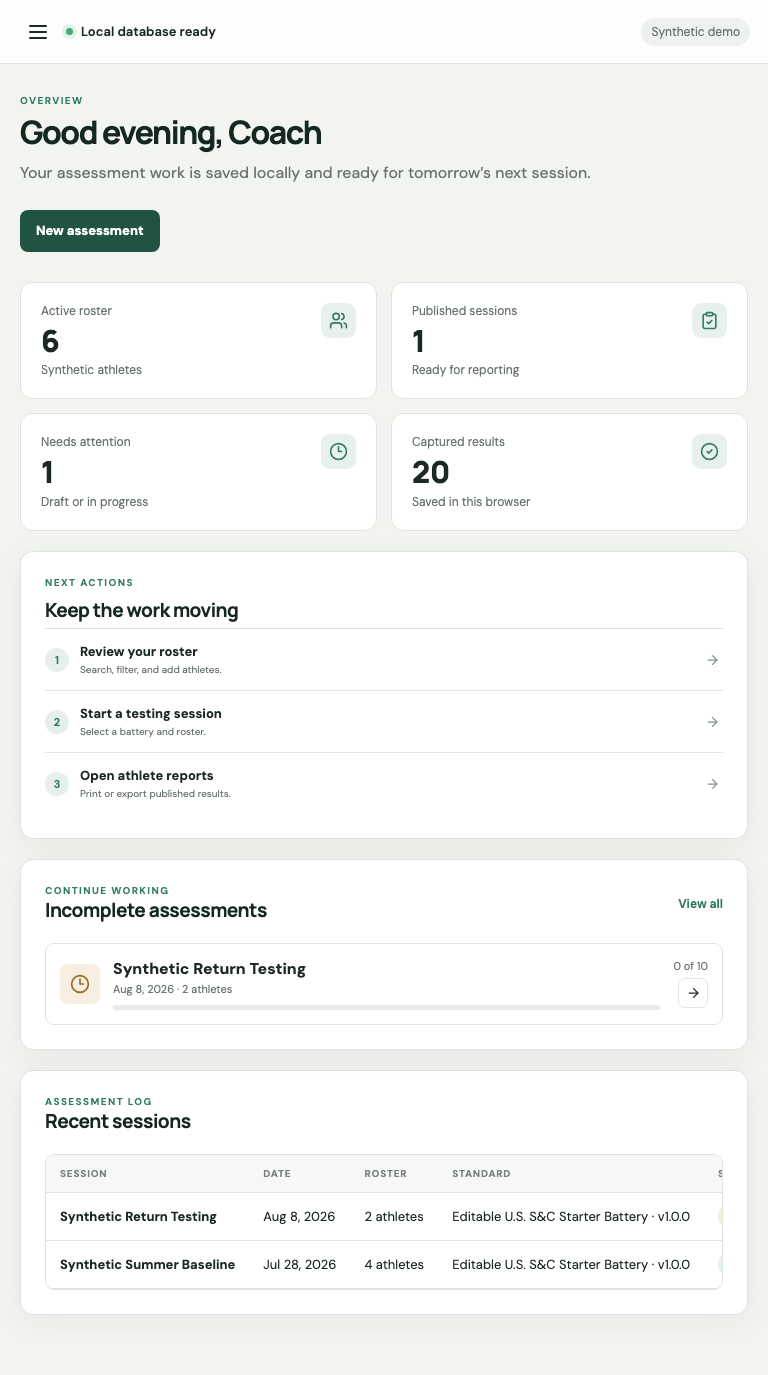
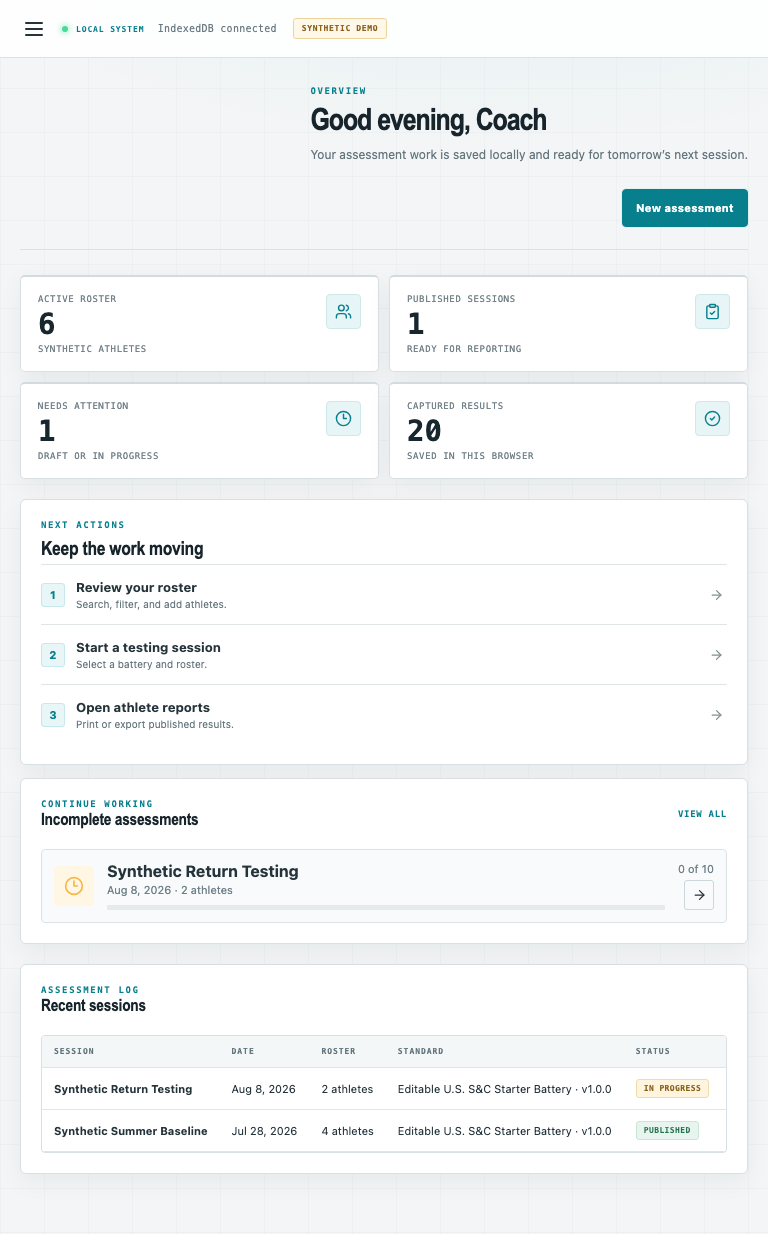
feat: adopt performance operations visual system

diff --git a/src/styles.css b/src/styles.css
@@ -12,3 +12,91 @@ button,input,select{max-width:100%}
 @media(max-width:800px){.editor-metric-grid{grid-template-columns:1fr 1fr}.editor-bands>div{grid-template-columns:1fr 1fr}.editor-bands .meaning{grid-column:1/-1}.standards-modal{padding:18px}}
 @media(max-width:520px){.header-actions{flex-direction:column}.header-actions>select{width:100%}}
 .modal.standards-modal{width:min(1100px,calc(100vw - 32px))}.standards-editor-list,.editor-metric,.editor-metric-grid,.editor-bands,.editor-bands>div{min-width:0}.editor-metric input,.editor-metric select{width:100%;min-width:0}
+
+/* Fieldhouse instrument system. Inspired by Arketype Signal Lab and proven
+   data-heavy admin patterns. This layer intentionally leaves workflow markup
+   and behavior untouched while replacing the visual language end to end. */
+:root{
+  font-family:Inter,ui-sans-serif,-apple-system,BlinkMacSystemFont,"Segoe UI",sans-serif;
+  color:#dce4e9;background:#090c0f;
+  --ink:#edf4f7;--muted:#82919a;--line:#273139;--panel:#11161b;
+  --green:#21c7d9;--green-dark:#087f8d;--lime:#21c7d9;
+  --cream:#0d1216;--red:#ff6b72;--amber:#f5b84b;
+  --shadow:0 14px 34px rgba(0,0,0,.24)
+}
+body{color:#dce4e9;background-color:#090c0f;background-image:linear-gradient(rgba(33,199,217,.027) 1px,transparent 1px),linear-gradient(90deg,rgba(33,199,217,.027) 1px,transparent 1px);background-size:44px 44px}
+h1,h2,h3{font-family:"Arial Narrow",Inter,ui-sans-serif,sans-serif;color:var(--ink);letter-spacing:-.02em}
+h1{font-size:clamp(1.9rem,3vw,2.65rem);font-weight:750;letter-spacing:-.035em}
+h2{letter-spacing:-.015em}
+.app-shell{background:radial-gradient(900px 520px at 60% -160px,rgba(33,199,217,.065),transparent 70%)}
+.sidebar{width:232px;background:#090d10;border-right:1px solid #202930;padding:20px 13px}
+.brand{padding:0 7px 25px;border-bottom:1px solid #202930;margin-bottom:14px}
+.brand-mark{width:34px;height:34px;border-radius:5px;background:rgba(33,199,217,.09);border:1px solid rgba(33,199,217,.38);color:#5ce7f4;box-shadow:inset 0 0 18px rgba(33,199,217,.06)}
+.brand strong{font-family:"Arial Narrow",Inter,sans-serif;font-size:15px;letter-spacing:.055em;text-transform:uppercase}
+.brand small{font-family:ui-monospace,SFMono-Regular,Menlo,monospace;color:#64757e;font-size:8px;letter-spacing:.11em;text-transform:uppercase}
+.sidebar nav{gap:3px}
+.sidebar nav a{position:relative;border-radius:4px;padding:10px 11px;color:#82939c;font-size:12px;font-weight:650;letter-spacing:.015em}
+.sidebar nav a svg{width:17px;color:#61717a}
+.sidebar nav a:hover{background:#111a1f;color:#d9e3e8}
+.sidebar nav a.active{background:rgba(33,199,217,.075);color:#79edf7;box-shadow:none}
+.sidebar nav a.active:before{content:"";position:absolute;left:0;top:9px;bottom:9px;width:2px;background:#21c7d9;box-shadow:0 0 8px #21c7d9}
+.sidebar nav a.active svg{color:#21c7d9}
+.data-boundary{border:1px solid #202b31;border-radius:5px;padding:12px;margin:16px 3px 0;background:#0d1317;color:#71828b}
+.data-boundary svg{color:#21c7d9}.data-boundary strong{color:#b7c5cb;font:650 9px ui-monospace,SFMono-Regular,Menlo,monospace;text-transform:uppercase;letter-spacing:.07em}.data-boundary span{font-size:9px}
+.main-column{margin-left:232px;width:calc(100% - 232px)}
+.topbar{height:58px;background:rgba(9,13,16,.9);border-bottom:1px solid #202930;padding:0 30px;backdrop-filter:blur(16px)}
+.topbar-title{font:500 10px ui-monospace,SFMono-Regular,Menlo,monospace;color:#8b9aa2;letter-spacing:.025em}.topbar-title b{color:#47d9e7;font-size:8px;letter-spacing:.11em;margin-right:7px}.status-dot{width:6px;height:6px;background:#49d99a;box-shadow:0 0 7px #49d99a}
+.topbar-readout{display:flex;align-items:center;gap:8px;margin-left:auto;padding-right:16px;border-right:1px solid #263139;font:500 8px ui-monospace,SFMono-Regular,Menlo,monospace;letter-spacing:.1em;color:#64747d}.topbar-readout strong{font-size:10px;color:#bdc9ce}
+.topbar-meta{margin-left:16px;color:#f3bd58;background:rgba(245,184,75,.08);border:1px solid rgba(245,184,75,.22);border-radius:3px;padding:5px 8px;font:650 8px ui-monospace,SFMono-Regular,Menlo,monospace;letter-spacing:.08em;text-transform:uppercase}
+.page{width:min(1420px,100%);padding:34px 34px 70px}
+.page-header{align-items:flex-end;margin-bottom:25px;border-bottom:1px solid #202930;padding-bottom:22px}.page-description{color:#82919a;font-size:12px;line-height:1.55}.eyebrow{font:650 9px ui-monospace,SFMono-Regular,Menlo,monospace;color:#32cede;letter-spacing:.18em;margin-bottom:7px}
+.button{min-height:38px;border-radius:4px;padding:8px 13px;font-size:11px;letter-spacing:.025em}.button.primary{background:#1293a1;color:#061012;border-color:#36cede;box-shadow:0 0 0 1px rgba(33,199,217,.08)}.button.primary:hover{background:#2cc7d6}.button.secondary{background:#131a1f;color:#c8d2d7;border-color:#344149}.button.secondary:hover{border-color:#21c7d9;color:#70ebf5}.button.danger{background:#171417;color:#ff8186;border-color:#593438}.text-button{color:#40d4e2}
+.panel,.stat-card,.athlete-card,.filter-bar,.modal,.capture-card,.report-canvas,.empty-state{background:#11161b;border-color:#273139;box-shadow:var(--shadow)}
+.panel{border-radius:6px;padding:20px}.stat-grid{gap:10px}.stat-card{border-radius:5px;padding:17px;border-top:2px solid #26363d}.stat-card:hover{border-top-color:#21c7d9}.stat-card svg{color:#39d0df;background:rgba(33,199,217,.08);border:1px solid rgba(33,199,217,.16);border-radius:4px}.stat-card span,.stat-card small{color:#71818a;font:500 9px ui-monospace,SFMono-Regular,Menlo,monospace;text-transform:uppercase;letter-spacing:.07em}.stat-card strong{font:700 29px ui-monospace,SFMono-Regular,Menlo,monospace;color:#edf4f7}
+.dashboard-grid{gap:13px}.section-heading h2{font-size:1.05rem}.section-heading>span,.section-heading>a{font:600 9px ui-monospace,SFMono-Regular,Menlo,monospace;text-transform:uppercase;letter-spacing:.08em}.section-heading>a{color:#3ed5e3}
+.work-item{border-radius:4px;border-color:#263139;background:#0e1418;padding:12px}.work-icon{border-radius:4px;background:rgba(245,184,75,.08);color:#f5b84b}.work-copy span,.work-status span{color:#71818a}.progress,.mini-bar,.score-track{background:#222c32;border-radius:1px}.progress span,.mini-bar span,.score-track span{background:#21c7d9;border-radius:1px}.icon-link{border-radius:3px;border-color:#334048}.quick-start>a>span{border-radius:3px;background:rgba(33,199,217,.1);border:1px solid rgba(33,199,217,.25);color:#4cdeeb}
+table{font-size:11px}th{color:#71818a;background:#0d1216;font:650 8px ui-monospace,SFMono-Regular,Menlo,monospace;letter-spacing:.12em}th,td{border-color:#222c32;padding:11px 12px}tbody tr:hover{background:rgba(33,199,217,.025)}td small{color:#708089}td a{color:#48d7e4}.table-scroll{border-radius:4px;border-color:#273139}
+.status-pill{border-radius:3px;padding:4px 7px;background:#20292f;color:#a1adb3;font:650 8px ui-monospace,SFMono-Regular,Menlo,monospace;text-transform:uppercase;letter-spacing:.05em}.status-pill.good{background:rgba(73,217,154,.1);color:#6be5af;border:1px solid rgba(73,217,154,.2)}.status-pill.warning{background:rgba(245,184,75,.1);color:#f4c66c;border:1px solid rgba(245,184,75,.2)}.status-pill.ready{background:rgba(33,199,217,.1);color:#65e2ed;border:1px solid rgba(33,199,217,.2)}
+.filter-bar{border-radius:5px;padding:11px}.filter-bar label>span{font:650 8px ui-monospace,SFMono-Regular,Menlo,monospace;letter-spacing:.1em}.search-field,.filter-bar select,select,input{background:#0b1014;border-color:#344149;color:#dbe4e8;border-radius:3px;min-height:38px}.search-field{height:38px}.search-field:focus-within,input:focus,select:focus{border-color:#21c7d9;outline:1px solid rgba(33,199,217,.2)}
+.athlete-grid{gap:10px}.athlete-card{border-radius:5px;padding:15px}.athlete-card:hover{transform:none;border-color:#3b8993;background:#121b20}.avatar{border-radius:4px;background:#18282e;color:#55dce8;font-family:ui-monospace,SFMono-Regular,Menlo,monospace;border:1px solid #2c454d}.avatar.small,.avatar.xl{border-radius:4px}.athlete-card-copy>span{background:#1c252a;color:#93a2aa;border-radius:2px}.card-arrow{color:#56666e}
+.modal-backdrop{background:rgba(2,5,7,.8);backdrop-filter:blur(4px)}.modal{border:1px solid #334049;border-radius:6px}.modal-header{border-bottom:1px solid #263139;padding-bottom:14px;margin-bottom:16px}.score-badge{border-radius:4px;background:#1a2328;border:1px solid #2b3940}.score-badge strong{font-family:ui-monospace,SFMono-Regular,Menlo,monospace}.score-badge.good{background:rgba(73,217,154,.07);color:#69e4ae;border-color:rgba(73,217,154,.25)}.score-badge.ready{background:rgba(33,199,217,.07);color:#5adee9;border-color:rgba(33,199,217,.25)}.score-badge.attention{background:rgba(255,107,114,.07);color:#ff8187;border-color:rgba(255,107,114,.25)}
+.metric-row,.timeline>div,.quick-start>a,.report-list>a,.live-score-list button,.exception-list>div{border-color:#273139}.history-card{border-radius:4px;border-color:#273139;background:#0d1317}.history-card strong{font-family:ui-monospace,SFMono-Regular,Menlo,monospace}.timeline-dot{border-radius:3px;background:rgba(33,199,217,.1);color:#3bd2df}
+.session-card-head h2{font-size:1.15rem}.session-count{border-radius:3px;background:#0d1418;border:1px solid #26343b}.session-count strong{font-family:ui-monospace,SFMono-Regular,Menlo,monospace;color:#e9f1f4}.session-details{border-radius:3px;border-color:#28343b}.session-details span{border-color:#28343b}.session-details strong{color:#dce4e8}
+.step-number{border-radius:3px;background:#158c99;color:#071114}.choice-list button,.roster-picker button{background:#0d1317;border-color:#2b373e;color:#d9e2e6;border-radius:4px}.choice-list button.selected,.roster-picker button.selected{border-color:#21c7d9;background:rgba(33,199,217,.06)}.selected .checkbox{background:#20bece;border-color:#20bece;color:#071114}
+.notice{border-radius:4px;background:rgba(33,199,217,.06);color:#9fdce1;border-color:rgba(33,199,217,.22)}.notice.warning{background:rgba(245,184,75,.07);color:#e7c986;border-color:rgba(245,184,75,.22)}.notice.success{background:rgba(73,217,154,.07);color:#91d9b7;border-color:rgba(73,217,154,.22)}
+.live-page{background:#090d10}.live-header{background:#0d1216;border-color:#273139}.live-kicker{color:#3bd5e3}.queue-panel,.results-rail{background:#0b1014;border-color:#273139}.queue-list button{border-color:#202b31;color:#bac6cc}.queue-list button.active{background:rgba(33,199,217,.07);box-shadow:inset 2px 0 #21c7d9}.capture-panel{background:transparent}.metric-tabs button{background:#0e1519;border-color:#2b373e;color:#87969e;border-radius:3px}.metric-tabs button.active{background:rgba(33,199,217,.1);color:#67e3ee;border-color:#21c7d9}.capture-card{border-radius:5px}.unit-badge{border-radius:3px;background:#138c99;color:#061012;font-family:ui-monospace,SFMono-Regular,Menlo,monospace}.attempt-input{border-color:#3a4850;border-radius:3px}.attempt-input input{background:#090e11;font-family:ui-monospace,SFMono-Regular,Menlo,monospace;color:#eff7fa}.live-feedback{background:#0c1317;border:1px solid #27343a;border-radius:3px}.live-feedback strong,.live-score-list>button>strong{font-family:ui-monospace,SFMono-Regular,Menlo,monospace}.rail-note{background:rgba(245,184,75,.07);border:1px solid rgba(245,184,75,.17);border-radius:3px}
+.report-canvas{border-radius:2px}.report-header{border-color:#dce5e9}.report-brand{color:#2bd0df}.report-meta{font-family:ui-monospace,SFMono-Regular,Menlo,monospace}.trend-line{border-color:#334148}.trend-dot{background:#21c7d9;border-color:#11161b;box-shadow:0 0 0 1px #21c7d9}
+.data-stat>svg{color:#31d1df}.upload-zone{border-color:#3d5b63;background:#0c1317;border-radius:4px;color:#3bd2df}.import-steps span{border-radius:3px;background:rgba(33,199,217,.1);color:#46d5e2}.mapping-row{border-radius:3px;border-color:#273139}.mapping-row>*{border-color:#273139}.mapping-row>*:nth-child(-n+3){background:#0c1216}.validation-error{color:#ff7f85}
+.standards-summary>div,.editor-bands>div{border-color:#273139}.direction-card{background:#0c1317;border:1px solid #273139;border-radius:3px}.direction-card svg{color:#36d0de}.band-grid>div{border-color:#2a363d;border-radius:3px;background:#0d1317}.editor-metric{border-radius:4px;background:#0d1317}.incomplete-contract>svg{color:#3bd2df}
+.empty-state{border-color:#34434a}.empty-icon{border-radius:3px;background:rgba(33,199,217,.1);color:#3bd2df}
+@media(max-width:800px){.sidebar{width:232px}.main-column{margin:0;width:100%}.topbar{padding:0 14px}.topbar-readout{display:none}.page{padding:28px 20px 60px}.mobile-close{color:#dbe6ea}.scrim{background:rgba(2,5,7,.78)}}
+@media(max-width:520px){.page{padding:22px 13px 48px}.page-header{padding-bottom:18px}.topbar-title b{display:none}.panel{padding:15px}.stat-card{padding:13px}.stat-card strong{font-size:23px}.capture-card{padding:15px}.report-canvas{background:#11161b}}
+@media print{:root{--ink:#142027;--muted:#647078;--line:#d9dfe2;--panel:#fff}body,.report-canvas{background:#fff;color:#142027}.report-canvas h1,.report-canvas h2,.report-canvas h3{color:#142027}}
+
+/* Light operations shell. Dark instrument styling remains scoped to live intake. */
+:root{color:#25333a;background:#f3f5f6;--ink:#17242b;--muted:#697981;--line:#d9e0e3;--panel:#fff;--green:#087f8d;--green-dark:#076d78;--cream:#f5f7f8;--shadow:0 8px 24px rgba(24,40,48,.055)}
+body{color:#25333a;background-color:#f3f5f6;background-image:linear-gradient(rgba(20,66,76,.025) 1px,transparent 1px),linear-gradient(90deg,rgba(20,66,76,.025) 1px,transparent 1px)}
+.app-shell{background:radial-gradient(900px 450px at 65% -180px,rgba(33,199,217,.11),transparent 72%)}
+.topbar{background:rgba(255,255,255,.9);border-color:#dbe2e5}.topbar-title{color:#697981}.topbar-title b{color:#087f8d}.topbar-readout{color:#77878e;border-color:#dce3e6}.topbar-readout strong{color:#26363d}.topbar-meta{color:#8a611d;background:#fff8e9;border-color:#ecd49d}
+.page-header{border-color:#dbe2e5}.page-description{color:#64757d}.eyebrow{color:#087f8d}
+.button.primary{background:#087f8d;color:#fff;border-color:#087f8d}.button.primary:hover{background:#076d78}.button.secondary{background:#fff;color:#23333a;border-color:#cbd5d9}.button.secondary:hover{border-color:#087f8d;color:#087f8d}.button.danger{background:#fff;color:#b3474c;border-color:#e0b7ba}
+.panel,.stat-card,.athlete-card,.filter-bar,.modal,.report-canvas,.empty-state{background:#fff;border-color:#d9e0e3;box-shadow:var(--shadow)}
+.stat-card{border-top-color:#d2dce0}.stat-card:hover{border-top-color:#0fa5b5}.stat-card svg{color:#087f8d;background:#e8f5f6;border-color:#cce9ec}.stat-card span,.stat-card small{color:#728188}.stat-card strong{color:#18262d}
+.section-heading>a{color:#087f8d}.work-item{background:#f8fafb;border-color:#dce3e6}.work-icon{background:#fff6e4}.progress,.mini-bar,.score-track{background:#e5ebed}.progress span,.mini-bar span,.score-track span{background:#0c93a1}.icon-link{border-color:#ccd7db}.quick-start>a>span{background:#e9f6f7;border-color:#c5e9ec;color:#087f8d}
+th{color:#64757d;background:#f4f7f8}th,td{border-color:#e0e6e8}tbody tr:hover{background:#f7fafb}td small{color:#718087}td a{color:#087f8d}.table-scroll{border-color:#d9e0e3}
+.status-pill{background:#edf1f2;color:#5f6f76}.status-pill.good{background:#e7f5ee;color:#257251;border-color:#c8e7d8}.status-pill.warning{background:#fff5df;color:#8a641f;border-color:#efdcae}.status-pill.ready{background:#e8f5f6;color:#087784;border-color:#c5e7ea}
+.filter-bar label>span{color:#6b7a81}.search-field,.filter-bar select,select,input{background:#fff;border-color:#cbd5d9;color:#1d2b32}.search-field:focus-within,input:focus,select:focus{border-color:#0b96a4;outline:2px solid rgba(11,150,164,.1)}
+.athlete-card:hover{border-color:#65aeb6;background:#fbfdfd}.avatar{background:#e6f1f3;color:#08717c;border-color:#c7e1e4}.athlete-card-copy>span{background:#eef2f3;color:#5c6d74}.card-arrow{color:#839097}
+.modal{border-color:#cfd9dd}.modal-header{border-color:#e0e6e8}.score-badge{background:#edf2f3;border-color:#d5dfe2}.score-badge.good{background:#e8f5ee;color:#277250;border-color:#cae6d7}.score-badge.ready{background:#e7f4f6;color:#087480;border-color:#c6e4e7}.score-badge.attention{background:#fff0ed;color:#a54c47;border-color:#e9cbc7}
+.metric-row,.timeline>div,.quick-start>a,.report-list>a,.exception-list>div{border-color:#e0e6e8}.history-card{background:#f8fafb;border-color:#dce3e6}.timeline-dot{background:#e7f4f6;color:#087f8d}
+.session-count{background:#f2f6f7;border-color:#dce4e7}.session-count strong{color:#1d2a31}.session-details{border-color:#d9e1e4}.session-details span{border-color:#d9e1e4}.session-details strong{color:#213037}
+.choice-list button,.roster-picker button{background:#fff;border-color:#d8e0e3;color:#233138}.choice-list button.selected,.roster-picker button.selected{border-color:#0c91a0;background:#eef9fa}.selected .checkbox{background:#0c91a0;border-color:#0c91a0;color:#fff}
+.notice{background:#edf7f8;color:#315f65;border-color:#cbe5e8}.notice.warning{background:#fff7e8;color:#7b5a24;border-color:#eeddb8}.notice.success{background:#eaf6ef;color:#2d694f;border-color:#cbe6d7}
+.report-header{border-color:#26363d}.report-brand{color:#087f8d}.trend-line{border-color:#d5dfe2}.trend-dot{background:#0a8c99;border-color:#fff;box-shadow:0 0 0 1px #0a8c99}
+.upload-zone{border-color:#94b8bd;background:#f6fbfb;color:#087f8d}.import-steps span{background:#e9f6f7;color:#087f8d}.mapping-row{border-color:#d9e0e3}.mapping-row>*{border-color:#d9e0e3}.mapping-row>*:nth-child(-n+3){background:#f3f7f8}.validation-error{color:#b14449}
+.standards-summary>div,.editor-bands>div{border-color:#dce3e6}.direction-card{background:#f3f7f8;border-color:#dae3e6}.direction-card svg{color:#087f8d}.band-grid>div{border-color:#d7e0e3;background:#fbfcfc}.editor-metric{background:#f7fafb}.incomplete-contract>svg{color:#087f8d}.empty-state{border-color:#b9c8cd}.empty-icon{background:#e8f5f6;color:#087f8d}
+
+/* Live intake is the focused instrument surface. */
+.live-page{--ink:#edf4f7;--muted:#82919a;--line:#273139;--panel:#11161b;color:#dce4e9;background:#090d10}
+.live-page h1,.live-page h2,.live-page h3{color:#edf4f7}.live-page .eyebrow{color:#32cede}.live-page .button.primary{background:#1293a1;color:#061012;border-color:#36cede}.live-page .button.secondary{background:#131a1f;color:#c8d2d7;border-color:#344149}.live-page .notice{background:rgba(33,199,217,.06);color:#9fdce1;border-color:rgba(33,199,217,.22)}.live-page .notice.warning{background:rgba(245,184,75,.07);color:#e7c986;border-color:rgba(245,184,75,.22)}
+@media(max-width:520px){.report-canvas{background:#fff}}

diff --git a/src/components/Shell.tsx b/src/components/Shell.tsx
@@ -1,5 +1,5 @@
 import { useState } from 'react'
-import { Activity, BarChart3, ClipboardCheck, Database, Dumbbell, Menu, ShieldCheck, Users, X } from 'lucide-react'
+import { Activity, BarChart3, ClipboardCheck, Database, Dumbbell, Menu, Radar, ShieldCheck, Users, X } from 'lucide-react'
 import { NavLink, Outlet } from 'react-router-dom'
 
 const links = [
@@ -8,11 +8,11 @@ const links = [
 export default function Shell() {
   const [open, setOpen] = useState(false)
   return <div className="app-shell">
-    <aside className={`sidebar ${open ? 'open' : ''}`}><div className="brand"><span className="brand-mark">F</span><div><strong>Fieldhouse</strong><small>Assessment starter</small></div><button className="mobile-close icon-button" onClick={() => setOpen(false)} aria-label="Close navigation"><X /></button></div>
+    <aside className={`sidebar ${open ? 'open' : ''}`}><div className="brand"><span className="brand-mark"><Radar size={19} /></span><div><strong>Fieldhouse</strong><small>Performance assessment</small></div><button className="mobile-close icon-button" onClick={() => setOpen(false)} aria-label="Close navigation"><X /></button></div>
       <nav>{links.map(({ to, label, icon: Icon, end }) => <NavLink key={to} to={to} end={end} onClick={() => setOpen(false)}><Icon size={19} /><span>{label}</span></NavLink>)}</nav>
       <div className="data-boundary"><ShieldCheck size={18} /><div><strong>Stored on this device</strong><span>No athlete data is sent to Arkitect or a hosted service.</span></div></div>
     </aside>
     {open && <button className="scrim" aria-label="Close navigation" onClick={() => setOpen(false)} />}
-    <section className="main-column"><div className="topbar"><button className="menu-button icon-button" onClick={() => setOpen(true)} aria-label="Open navigation"><Menu /></button><div className="topbar-title"><span className="status-dot" />Local database ready</div><div className="topbar-meta">Synthetic demo</div></div><main><Outlet /></main></section>
+    <section className="main-column"><div className="topbar"><button className="menu-button icon-button" onClick={() => setOpen(true)} aria-label="Open navigation"><Menu /></button><div className="topbar-title"><span className="status-dot" /><span><b>LOCAL SYSTEM</b> IndexedDB connected</span></div><div className="topbar-readout"><span>STARTER STANDARDS</span><strong>v1.0.0</strong></div><div className="topbar-meta">Synthetic demo</div></div><main><Outlet /></main></section>
   </div>
 }
